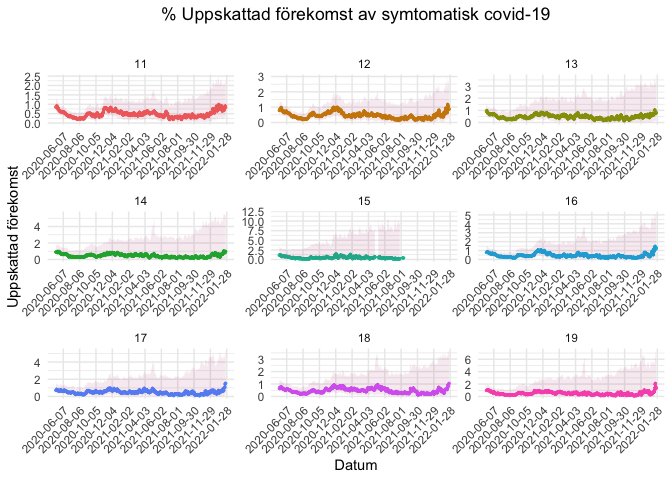
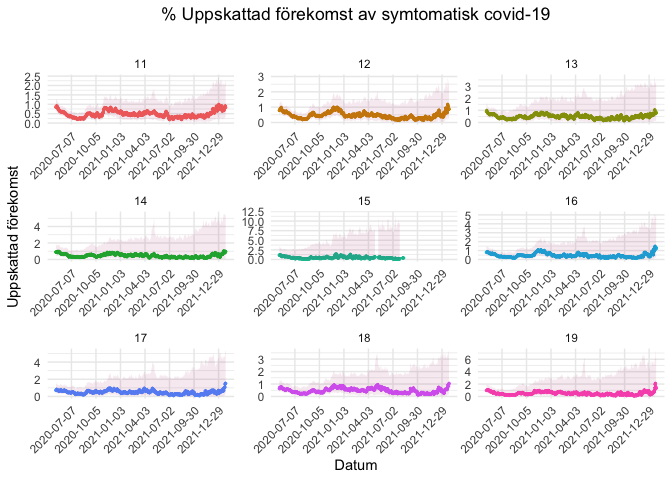
fixing README

diff --git a/README.md b/README.md
@@ -92,7 +92,7 @@ covidsymptom::national_estimates %>%
                      breaks = seq(0, 1, 0.2),
                      labels = paste0(format(seq(0, 1, 0.2), decimal.mark = ","), " %"), # add % sign to the labels
                      expand = c(0,0)) +
-  scale_x_date(date_breaks = "10 days", date_labels = "%d %b") + # can be "1 day", "2 days", etc.
+  scale_x_date(date_breaks = "30 days", date_labels = "%d %b, %Y") + # can be "1 day", "2 days", etc.
   theme_minimal() +
   theme(axis.text.x = element_text(angle = 45, hjust = 1), panel.grid.minor.x = element_blank()) +
   geom_ribbon(aes(ymin = Low_CI, ymax = High_CI), fill = "#a60f61", alpha = 0.09)
@@ -115,7 +115,7 @@ covidsymptom::county_estimates %>%
       geom_line() +
       geom_point(size = 0.5) +
       labs(x = "Datum", y = "Uppskattad förekomst", title = "% Uppskattad förekomst av symtomatisk covid-19", subtitle = "") +
-      scale_x_date(date_breaks = "30 days") +
+      scale_x_date(date_breaks = "50 days") +
       theme_minimal() + 
       theme(axis.text.x = element_text(angle = 45, hjust = 1), panel.grid.minor.x = element_blank(),
             legend.position = "none", plot.title = element_text(hjust = 0.5)) + 
@@ -185,7 +185,7 @@ covidsymptom::postcode_estimates %>%
   geom_line() +
   geom_point(size = 0.5) +
   labs(x = "Datum", y = "Uppskattad förekomst", title = "% Uppskattad förekomst av symtomatisk covid-19", subtitle = "") +
-  scale_x_date(date_breaks = "60 days") +
+  scale_x_date(date_breaks = "90 days") +
   theme_minimal() + 
   theme(axis.text.x = element_text(angle = 45, hjust = 1), panel.grid.minor.x = element_blank(),
         legend.position = "none", plot.title = element_text(hjust = 0.5)) + 
